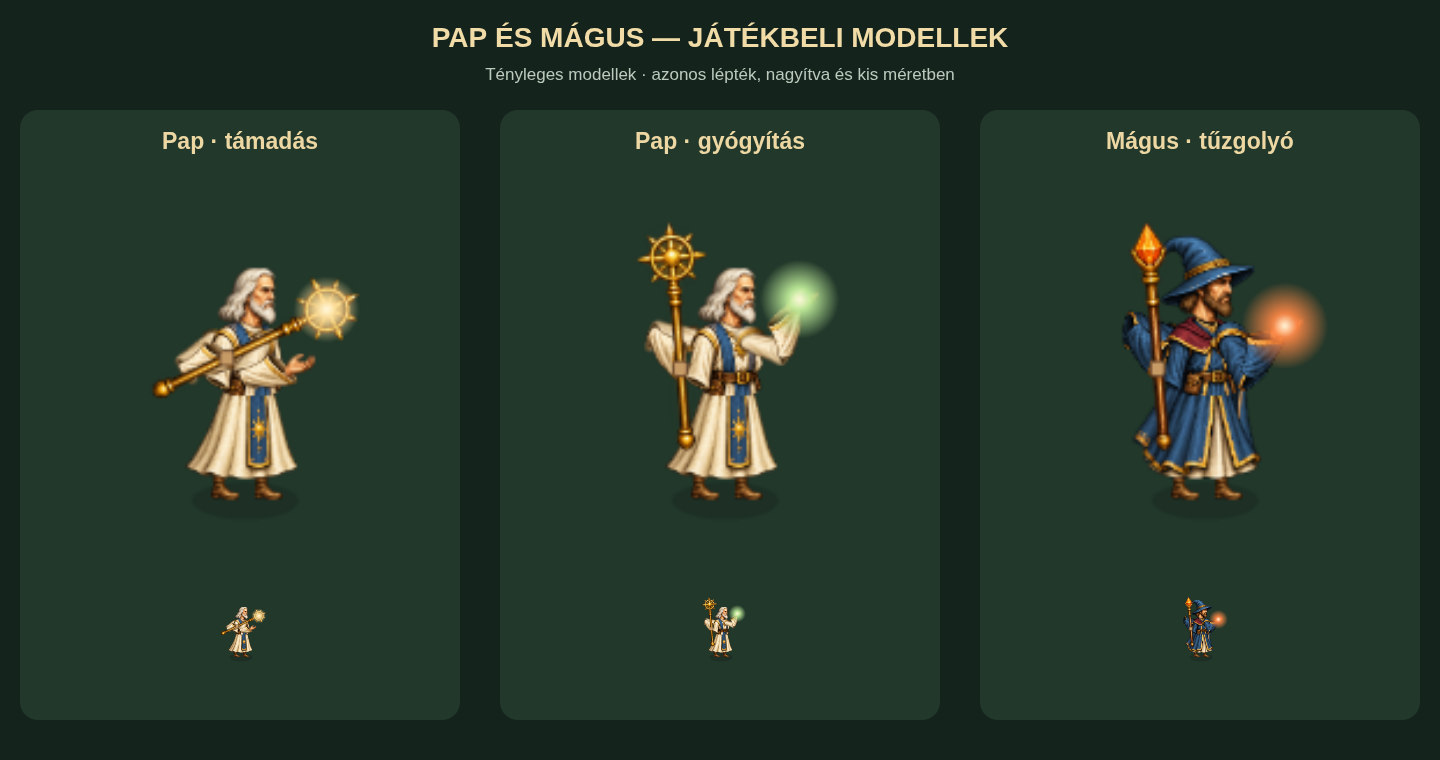
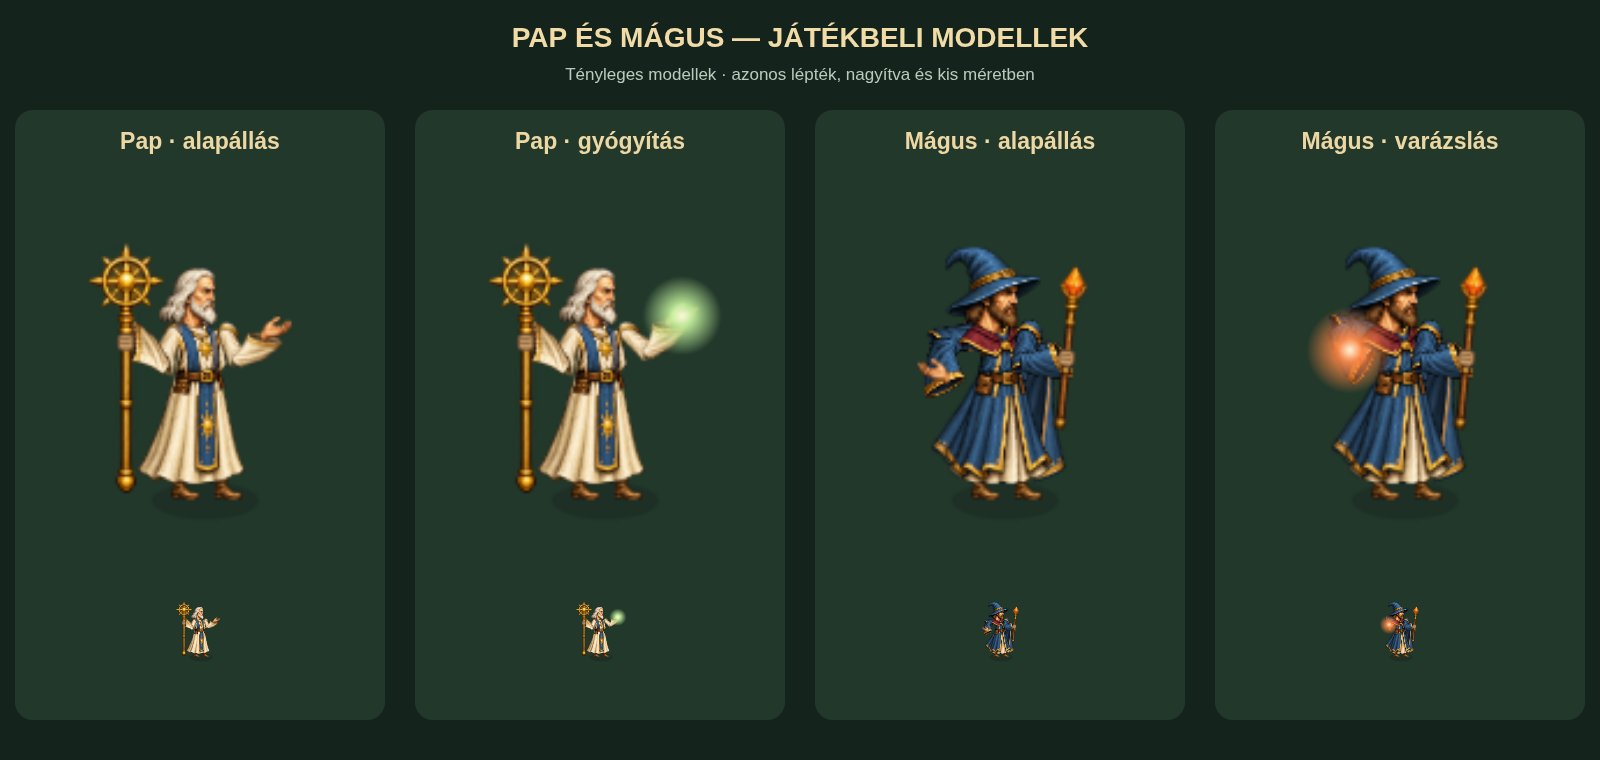
Match caster hand roles to concepts and align cuffs, collars and staves

diff --git a/src/rendering/human-caster-figures.js b/src/rendering/human-caster-figures.js
@@ -74,11 +74,15 @@ function limb(g,R,tinted,name,start,end) {
   if(tinted[name])g.drawImage(tinted[name],-ax*r[2],-ay*r[3],r[2],r[3]);else g.drawImage(R.humanCastersTexture,...r,-ax*r[2],-ay*r[3],r[2],r[3]);g.restore();
 }
 function staffTip(key,hand,angle) {
-  const name=key==='priest'?'priestStaff':'mageStaff',r=manifest.parts[name],a=manifest.anchors[name],s=43/r[3];
-  const x=(a.tip[0]-a.grip[0])*r[2]*s,y=(a.tip[1]-a.grip[1])*43;
+  const name=key==='priest'?'priestStaff':'mageStaff',r=manifest.parts[name],a=manifest.anchors[name],height=manifest.staffHeights[key],s=height/r[3];
+  const x=(a.tip[0]-a.grip[0])*r[2]*s,y=(a.tip[1]-a.grip[1])*height;
   return [hand[0]+Math.cos(angle)*x-Math.sin(angle)*y,hand[1]+Math.sin(angle)*x+Math.cos(angle)*y];
 }
-function launchPoint(key){return key==='priest'?staffTip(key,[-2.5,-25],1.12):[16,-31];}
+function palmPoint(wrist,mirror) {
+  const r=manifest.parts.palm,a=manifest.anchors.palm,s=4.7/r[3];
+  return [wrist[0]+(a.center[0]-a.wrist[0])*r[2]*s*mirror,wrist[1]+(a.center[1]-a.wrist[1])*4.7];
+}
+function launchPoint(key){return key==='priest'?staffTip(key,[-12,-28],1.12):palmPoint([-7,-24.5],-1);}
 function light(g,point,color,radius) {
   const glow=g.createRadialGradient(...point,0,...point,radius*2.5);glow.addColorStop(0,'#fff8dd');glow.addColorStop(.28,color+'ee');glow.addColorStop(1,color+'00');
   g.fillStyle=glow;g.beginPath();g.arc(...point,radius*2.5,0,TAU);g.fill();
@@ -90,26 +94,36 @@ export function drawHumanCaster(g,R,color,p,elite,pose,key,kind) {
   const walk=pose.state==='walk'?p.walk:0,lift=pose.state==='walk'?Math.cos(p.wheel):0,bob=Math.abs(walk)*.45;
   const recovering=pose.state==='attack'&&pose.frame>=7,rest=recovering?clamp((pose.frame-7)/4):0;
   const cast=p.strike*(1-rest),wind=p.wind*(1-p.strike),healing=Number.isInteger(pose.healFrame),heal=healing?1-pose.healFrame/6:0;
-  const staffHand=priest?[-7.5+5*cast,-23-2*cast]:[-8,-23],angle=priest?-.08+1.2*cast:-.08-walk*.025;
-  const hand=priest?[mix(9,13,heal),mix(-22,-34,heal)]:[mix(9-18*wind,14,cast),mix(-22-7*wind,-29,cast)];
-  const tip=staffTip(key,staffHand,angle),palm=[hand[0]+2,hand[1]-2],orbLoaded=key==='mage'&&pose.state==='attack'&&!recovering;
+  // Match the approved concepts: Priest holds the staff in the far arm;
+  // Mage holds it in the near arm. These roles never swap during a cast.
+  const staffHand=priest?[-14+2*cast,-28]:[12.5,-25],angle=priest?1.12*cast:.10-walk*.025;
+  const staffWrist=[staffHand[0]+(priest?1.4:-1.4),staffHand[1]+.2];
+  const hand=priest?[mix(12,13,heal),mix(-28.5,-31,heal)]:[mix(-10-3*wind,-7,cast),mix(-20.5-2*wind,-24.5,cast)];
+  const palmMirror=priest?1:-1,tip=staffTip(key,staffHand,angle),palm=palmPoint(hand,palmMirror),orbLoaded=key==='mage'&&pose.state==='attack'&&!recovering;
   const feet=[[-4-walk*3,-2-Math.max(0,-lift)*2.4],[4+walk*3,-2-Math.max(0,lift)*2.4]];
   g.save();g.translate(p.death*3,-17);g.rotate(p.death*1.48);g.translate(0,17);
   for(const foot of feet)part('boot',foot[0]-1.4,foot[1]-1,4.7);
   g.save();g.translate(0,bob);
-  if(!priest){g.save();g.translate(-5,-31);g.rotate(.12+walk*.04+p.death*.2);part('cape',-5,0,27);g.restore();}
-  g.save();g.translate(0,-19);g.rotate(walk*.035);part(prefix+'Robe',priest?-10.1:-10.8,0,17);g.restore();
-  const shoulderBack=[-4.5,-28.5],elbowBack=joint(shoulderBack,staffHand,7.8,1);
-  limb(g,R,tinted,prefix+'Upper',shoulderBack,elbowBack);
-  part(prefix+'Torso',priest?-6.6:-7,-33,15.4);
-  part(prefix+'Head',priest?-4.2:-7.8,priest?-42:-48,priest?11.4:16.5);
-  limb(g,R,tinted,prefix+'Fore',elbowBack,staffHand);
-  const shoulder=[4.8,-28.5],elbow=joint(shoulder,hand,7.8,1);
-  limb(g,R,tinted,prefix+'Upper',shoulder,elbow);limb(g,R,tinted,prefix+'Fore',elbow,hand);
-  const name=prefix+'Staff',r=manifest.parts[name],a=manifest.anchors[name].grip,s=43/r[3];
-  g.save();g.translate(...staffHand);g.rotate(angle);g.drawImage(R.humanCastersTexture,...r,-a[0]*r[2]*s,-a[1]*43,r[2]*s,43);g.restore();
-  g.fillStyle='#c79b66';g.strokeStyle='#6f4d32';g.lineWidth=.4;g.beginPath();g.roundRect(staffHand[0]-1.3,staffHand[1]-1.3,2.6,2.8,.65);g.fill();g.stroke();
-  const palmRect=manifest.parts.palm,h=4.7,w=h*palmRect[2]/palmRect[3];g.drawImage(R.humanCastersTexture,...palmRect,hand[0]-.1*w,hand[1]-.82*h,w,h);
+  if(!priest){g.save();g.translate(-5,-31);g.rotate(.12+walk*.04+p.death*.2);part('cape',-5,0,29);g.restore();}
+  const far={shoulder:[-4.5,-30],wrist:priest?staffWrist:hand},near={shoulder:[4.8,-30],wrist:priest?hand:staffWrist};
+  far.elbow=joint(far.shoulder,far.wrist,6.8,priest?-1:1);near.elbow=joint(near.shoulder,near.wrist,6,1);
+  const arm=rig=>{limb(g,R,tinted,prefix+'Upper',rig.shoulder,rig.elbow);limb(g,R,tinted,prefix+'Fore',rig.elbow,rig.wrist);};
+  arm(far);
+  const robe=manifest.parts[prefix+'Robe'],robeX=priest?(243-robe[0])/robe[2]:(600-robe[0])/robe[2];
+  g.save();g.translate(1,-21);g.rotate(walk*.03);g.drawImage(tinted[prefix+'Robe'],-robeX*20,0,20,20);g.restore();
+  const torsoName=prefix+'Torso',torso=manifest.parts[torsoName],torsoHeight=14.8,tw=torsoHeight*torso[2]/torso[3],ta=manifest.anchors[torsoName];
+  const torsoAt=[1-ta.waist[0]*tw,-21-ta.waist[1]*torsoHeight];
+  g.save();g.translate(...torsoAt);g.beginPath();
+  const outline=priest?[[.32,0],[1,0],[1,1],[.28,1],[.36,.42]]:[[0,0],[1,0],[1,1],[.25,1],[.36,.43],[0,.33]];
+  outline.forEach(([x,y],i)=>i?g.lineTo(x*tw,y*torsoHeight):g.moveTo(x*tw,y*torsoHeight));g.closePath();g.clip();part(torsoName,0,0,torsoHeight);g.restore();
+  const collar=[torsoAt[0]+ta.collar[0]*tw,torsoAt[1]+ta.collar[1]*torsoHeight],headName=prefix+'Head',hr=manifest.parts[headName],ha=manifest.anchors[headName].neck,hh=priest?11.4:16.5,hw=hh*hr[2]/hr[3];
+  part(headName,collar[0]-ha[0]*hw,collar[1]-ha[1]*hh,hh);
+  arm(near);
+  const name=prefix+'Staff',r=manifest.parts[name],a=manifest.anchors[name].grip,height=manifest.staffHeights[key],s=height/r[3];
+  g.save();g.translate(...staffHand);g.rotate(angle);g.drawImage(R.humanCastersTexture,...r,-a[0]*r[2]*s,-a[1]*height,r[2]*s,height);g.restore();
+  g.save();g.translate(...staffHand);g.rotate(angle);g.fillStyle='#c79b66';g.strokeStyle='#6f4d32';g.lineWidth=.4;g.beginPath();g.roundRect(-1.4,-1.3,2.8,2.8,.75);g.fill();g.stroke();g.lineWidth=.25;for(const y of [-.5,.3]){g.beginPath();g.moveTo(-1.1,y);g.lineTo(.9,y);g.stroke();}g.restore();
+  const palmRect=manifest.parts.palm,pa=manifest.anchors.palm.wrist,h=4.7,w=h*palmRect[2]/palmRect[3];
+  g.save();g.translate(...hand);g.scale(palmMirror,1);g.drawImage(R.humanCastersTexture,...palmRect,-pa[0]*w,-pa[1]*h,w,h);g.restore();
   if(!p.death){
     if(priest&&pose.state==='attack')light(g,tip,'#ffe2a0',recovering?1.1:1+cast*1.5+wind);
     if(priest&&healing)light(g,palm,'#c2f09c',1.5+heal*1.5);
@@ -117,7 +131,7 @@ export function drawHumanCaster(g,R,color,p,elite,pose,key,kind) {
   }
   if(elite){g.strokeStyle='#f5d279';g.lineWidth=1.2;g.beginPath();g.moveTo(-6,-30.5);g.lineTo(-2,-28.5);g.moveTo(2,-28.5);g.lineTo(6,-30.5);g.stroke();g.strokeStyle='#fff0b2';g.lineWidth=.65;g.beginPath();g.moveTo(-5,-5);g.lineTo(5,-5);g.stroke();}
   g.restore();g.restore();
-  return {painted:true,style:'painted-caster',hands:[staffHand,hand],staffTip:tip,palm,release:launchPoint(key),orbLoaded,healing,healFrame:pose.healFrame,feet,death:p.death};
+  return {painted:true,style:'painted-caster',hands:[staffHand,hand],staffWrist,handRoles:manifest.handRoles[key],arms:{far,near},collar,neck:[...collar],waist:[1,-21],staffTip:tip,palm,release:launchPoint(key),orbLoaded,healing,healFrame:pose.healFrame,feet,death:p.death};
 }
 
 export function casterProjectilePoint(R,a,t) {

diff --git a/src/config/app.js b/src/config/app.js
@@ -1,6 +1,6 @@
 export const APP = Object.freeze({
-  version: '4.43.0',
-  label: 'V4.43.0 · PAP ÉS MÁGUS',
+  version: '4.43.1',
+  label: 'V4.43.1 · PAP ÉS MÁGUS',
   title: 'Roadlords – Pap és Mágus',
   repository: 'krisztianmatekiss/Roadlords',
   musicRoot: 'https://raw.githubusercontent.com/krisztianmatekiss/roadlords-music/main/',

diff --git a/README.md b/README.md
@@ -1,4 +1,12 @@
-# Roadlords · V4.43.0
+# Roadlords · V4.43.1
+
+## V4.43.1 – Az eredeti kéztartások és illesztések javítása
+
+A Pap a távolabbi kezében tartja a botját, a Mágus az elöl látszó kezében, az elfogadott tervek szerint. A szerepek járás, támadás, gyógyítás és elesés közben is megmaradnak. A szabad tenyér a megfelelő irányba fordul; a könyökök természetesebben hajlanak, a csukló az ingujj tényleges nyílásához csatlakozik.
+
+A botok markolati pontjai és méretei külön igazodnak a figurákhoz. A Pap botja alapállásban a talajig ér, a Mágus rövidebb botot tart. A nyak és gallér, valamint az öv és a hosszabb alsó köpeny közös illesztési pontokra épül; a törzsön maradt rögzített ruhaujjak takarása megszünteti a dupla kar hatását. A lövedékek kiindulópontjai a javított fogáshoz igazodnak.
+
+Összehasonlító kép: `public/previews/human-casters-reference-comparison.png`. Az alapállást és a varázslást együtt mutató előnézet frissült; a próbacsata és a játékértékek változatlanok.
 
 ## V4.43.0 – Pap és Mágus
 
